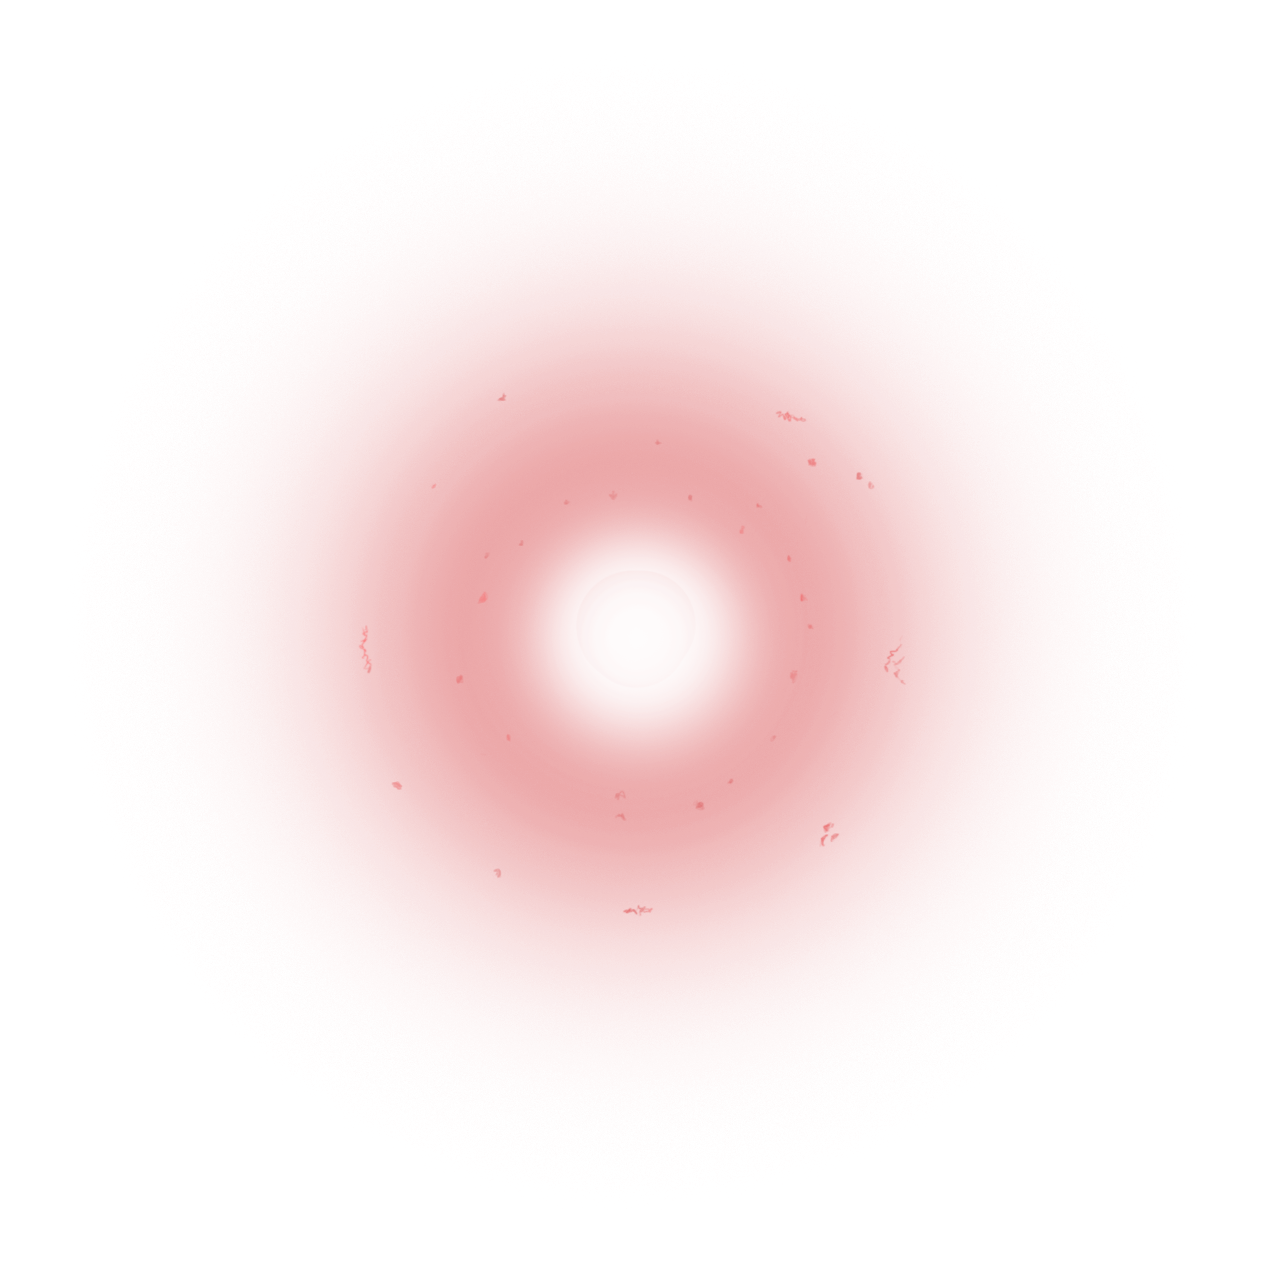
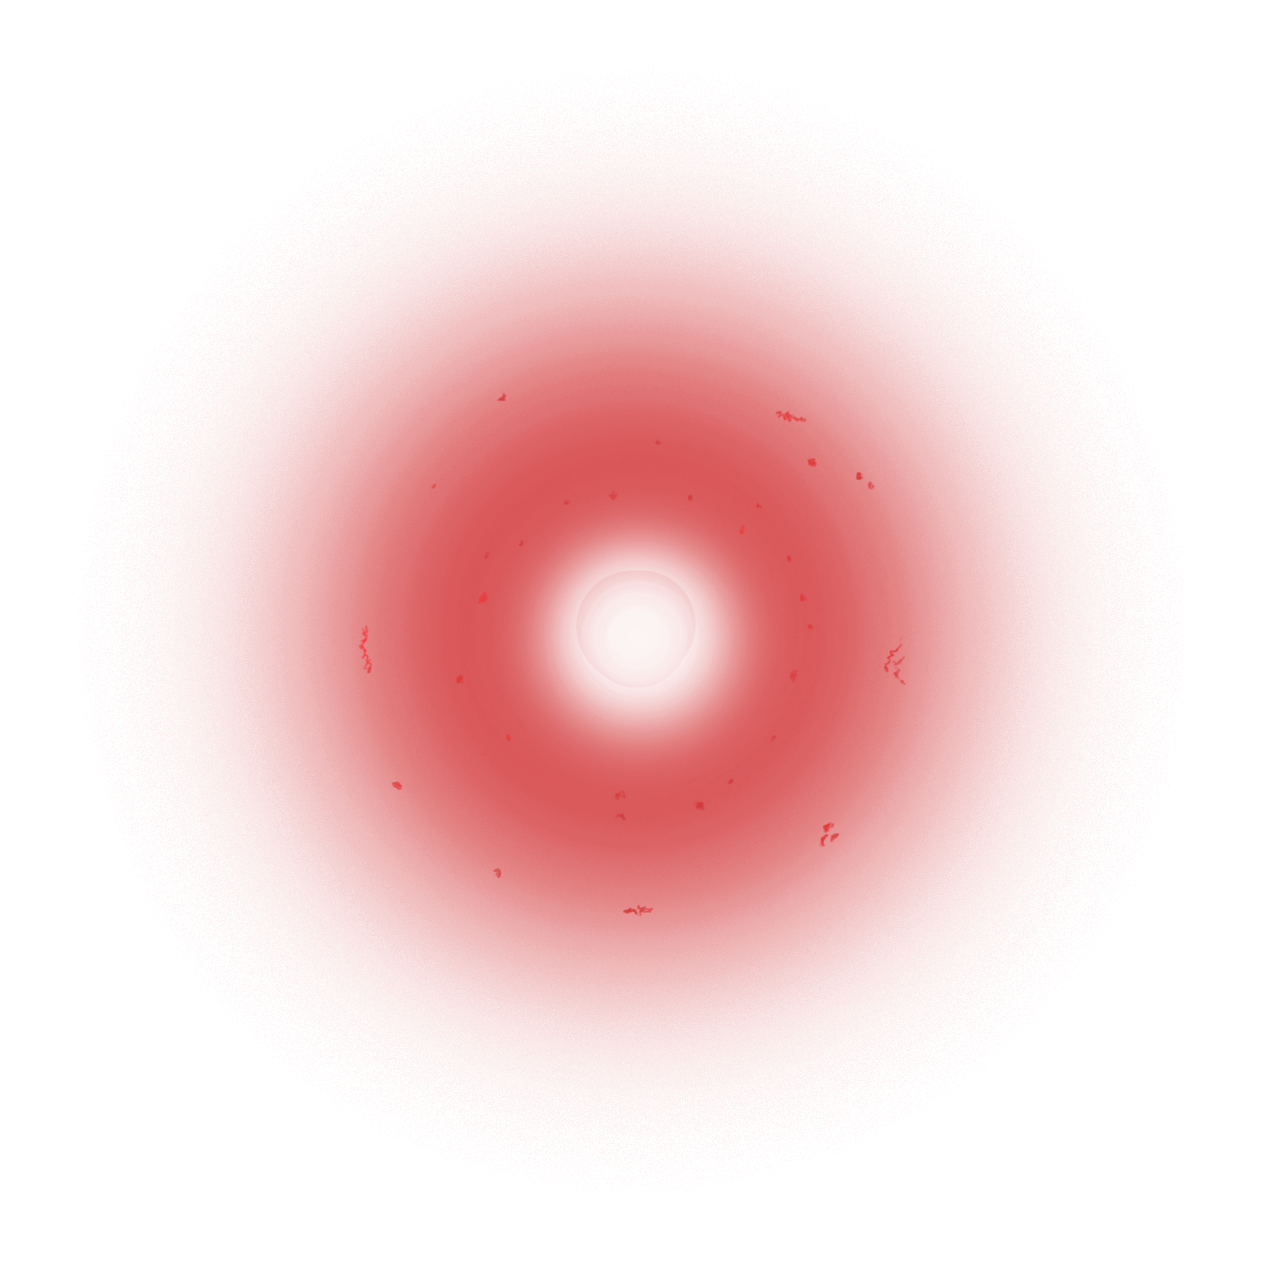
Finished red glow thingy

Changed region(s): [[0.1875, 0.1875, 0.8125, 0.8125]]

diff --git a/src/js/level/overlay.js b/src/js/level/overlay.js
@@ -1,9 +1,11 @@
 var Overlay = function () {
 	var sprite = new PIXI.Sprite(PIXI.TextureCache[Utils.Assets.Images + 'level/sprRedGlow.png']);
 
-	sprite.__z = 55302000000;
+	sprite.__z = 999;
 	var time = 0,
-		sin = 0;
+		sin = 0,
+		speed = 10,
+		angle = 0;
 	sprite.position.x = 0;
 	sprite.position.y = 0;
 	sprite.pivot.x = 0.5;
@@ -15,13 +17,13 @@ var Overlay = function () {
 		var remainder = (StateManager.getState().maxStability - StateManager.getState().stability) / StateManager.getState().maxStability,
 			percentage = StateManager.getState().stability / StateManager.getState().maxStability;
 		
-		time++;
-		if (remainder <= 0.95) {
-			sin = Math.abs(Math.sin(time / (10 * percentage)));
-		} else if (sin !== 1) {
-			sin = 1;
+		time += 0.5;
+
+		if (remainder >= 0.7) {
+			sprite.alpha = Math.abs(Math.sin(time / 8));
+		} else {
+			sprite.alpha = remainder;
 		}
-		sprite.alpha = sin;
 	};
 
 	Game.PIXI.Camera.addChild(sprite);
